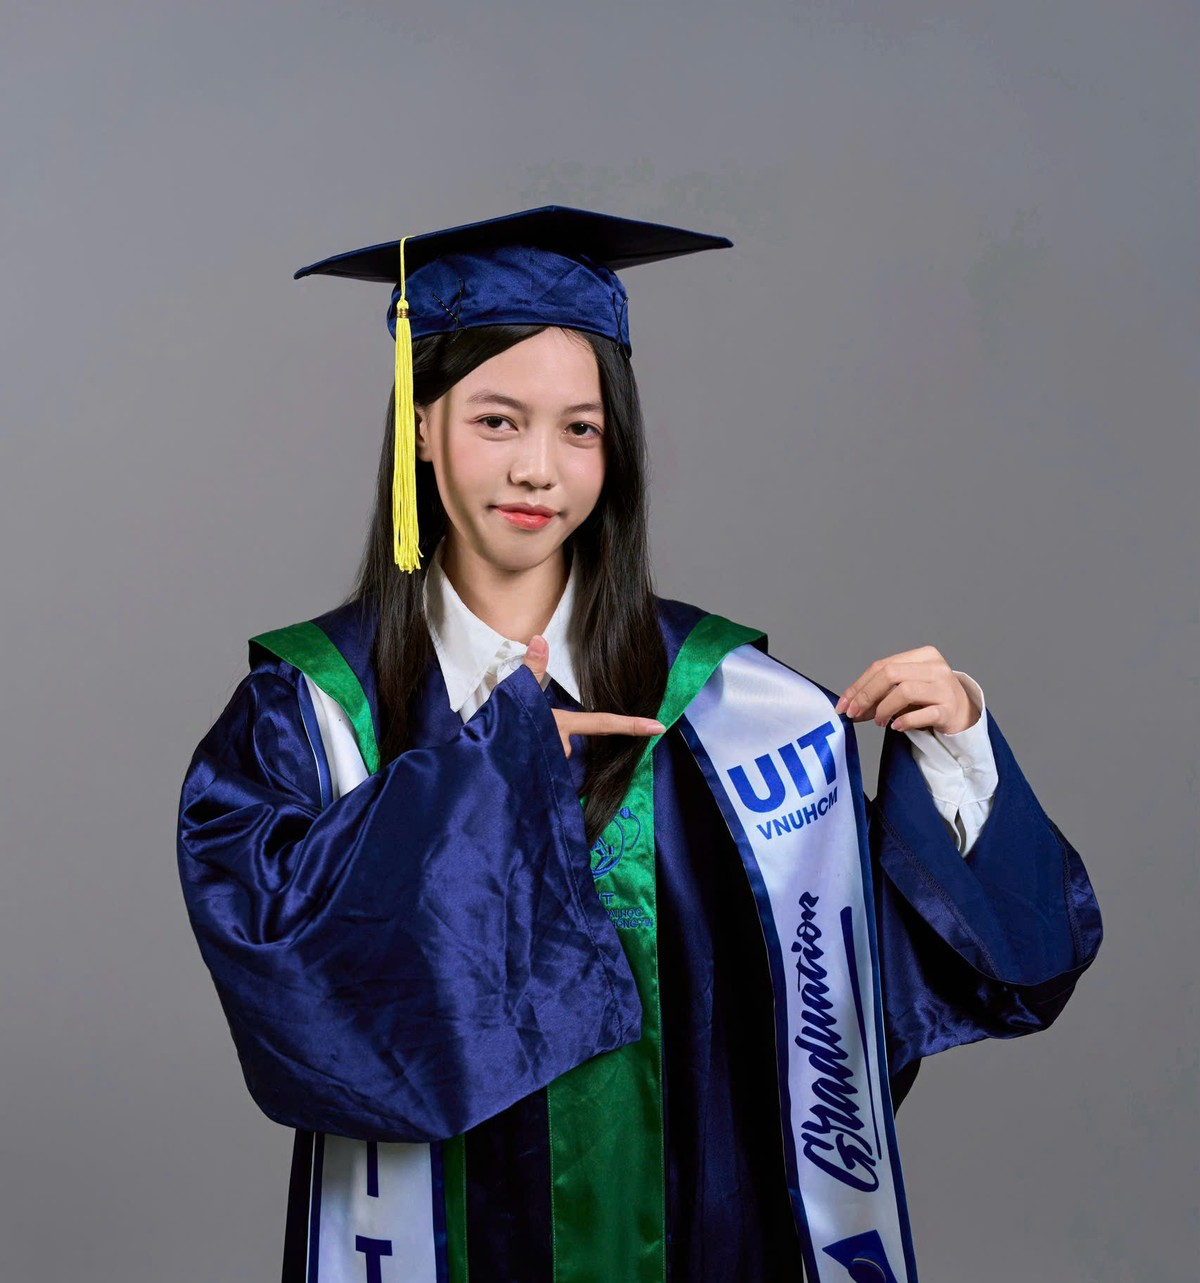
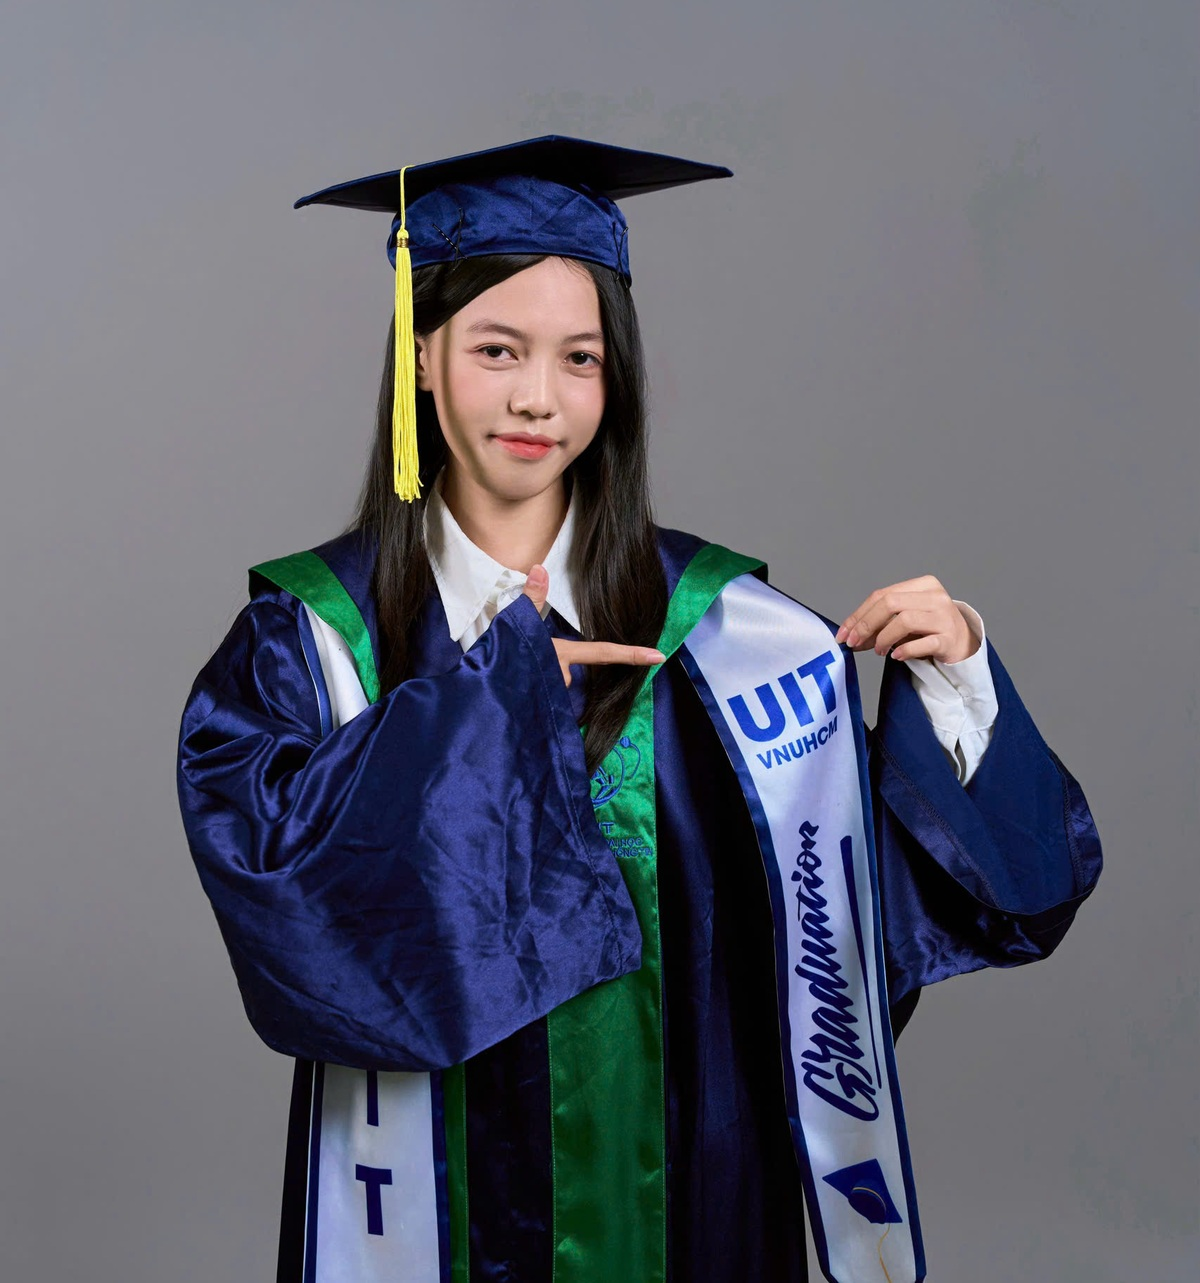
feat: cho sua loi nhan bang luu but trong host, giu nguyen loi cam on va cap nhat anh9 moi

diff --git a/src/personalization.js b/src/personalization.js
@@ -241,12 +241,14 @@ export function sanitizeOverrides(raw) {
   const heroDesc = sanitizeField(raw.heroDesc, 320)
   const aboutTitle = sanitizeField(raw.aboutTitle, 80)
   const aboutPara = sanitizeField(raw.aboutPara, 420)
+  const newsletterSub = sanitizeField(raw.newsletterSub, 360)
 
   if (coverText) out.coverText = coverText
   if (heroTitle) out.heroTitle = heroTitle
   if (heroDesc) out.heroDesc = heroDesc
   if (aboutTitle) out.aboutTitle = aboutTitle
   if (aboutPara) out.aboutPara = aboutPara
+  if (newsletterSub) out.newsletterSub = newsletterSub
   return out
 }
 
@@ -277,6 +279,7 @@ export function encodeInviteToken({
   if (cleanOverrides.heroDesc) compactOverrides.d = cleanOverrides.heroDesc
   if (cleanOverrides.aboutTitle) compactOverrides.a = cleanOverrides.aboutTitle
   if (cleanOverrides.aboutPara) compactOverrides.p = cleanOverrides.aboutPara
+  if (cleanOverrides.newsletterSub) compactOverrides.n = cleanOverrides.newsletterSub
 
   const hasOverrides = Object.keys(compactOverrides).length > 0
   const payload = hasOverrides
@@ -331,6 +334,7 @@ export function decodeInviteToken(token) {
         heroDesc: rawMap.d,
         aboutTitle: rawMap.a,
         aboutPara: rawMap.p,
+        newsletterSub: rawMap.n,
       })
       return {
         preset,
@@ -386,6 +390,7 @@ export function buildPersonalizedCopy(invite) {
   const defaultHeroDesc = base.hero.description
   const defaultAboutTitle = base.about.title
   const defaultAboutPara = base.about.paragraphs[1]
+  const defaultNewsletterSub = base.newsletter.subtitle
 
   const finalCoverText = cleanOverrides.coverText || defaultCoverText
   const finalHeroTitle = cleanOverrides.heroTitle || defaultHeroTitle
@@ -395,6 +400,7 @@ export function buildPersonalizedCopy(invite) {
   const finalHeroDesc = cleanOverrides.heroDesc || defaultHeroDesc
   const finalAboutTitle = cleanOverrides.aboutTitle || defaultAboutTitle
   const finalAboutPara = cleanOverrides.aboutPara || defaultAboutPara
+  const finalNewsletterSub = cleanOverrides.newsletterSub || defaultNewsletterSub
 
   return {
     ...base,
@@ -406,6 +412,7 @@ export function buildPersonalizedCopy(invite) {
       heroDesc: defaultHeroDesc,
       aboutTitle: defaultAboutTitle,
       aboutPara: defaultAboutPara,
+      newsletterSub: defaultNewsletterSub,
     },
     cover: {
       ...base.cover,
@@ -431,8 +438,18 @@ export function buildPersonalizedCopy(invite) {
       title: finalAboutTitle,
       paragraphs: [base.about.paragraphs[0], finalAboutPara],
     },
+    newsletter: {
+      ...base.newsletter,
+      subtitle: finalNewsletterSub,
+    },
+    footer: {
+      message: DEFAULT_FOOTER_MESSAGE,
+    },
   }
 }
+
+const DEFAULT_FOOTER_MESSAGE =
+  'Bốn năm đại học là hành trình của tri thức, của những nỗ lực không ngừng và của biết bao yêu thương nâng đỡ. Xuân Mai xin gửi lời cảm ơn chân thành nhất đến gia đình, thầy cô và bạn bè — những người đã luôn ở bên, và xin cảm ơn mọi người đã dành thời gian đến chung vui, để ngày tốt nghiệp này trở nên trọn vẹn và đáng nhớ hơn bao giờ hết.'
 
 const ABOUT_TITLE_DEFAULT = 'Đôi Dòng Tâm Sự'
 const ABOUT_FIRST_PARAGRAPH =

diff --git a/src/components/HostInviteTool.jsx b/src/components/HostInviteTool.jsx
@@ -731,6 +731,7 @@ function HostStudioWorkspace({ onLockSession }) {
   const coverEdited = Boolean(cleanOverrides.coverText)
   const heroEdited = Boolean(cleanOverrides.heroTitle || cleanOverrides.heroDesc)
   const aboutEdited = Boolean(cleanOverrides.aboutTitle || cleanOverrides.aboutPara)
+  const newsletterEdited = Boolean(cleanOverrides.newsletterSub)
 
   return (
     <div
@@ -1087,6 +1088,38 @@ function HostStudioWorkspace({ onLockSession }) {
                     handleInlineChange('aboutPara', e.target.value, draftCopy.defaults.aboutPara)
                   }
                   onBlur={() => handleInlineBlur('aboutPara')}
+                />
+              </div>
+
+              <div className="host-preview-line">
+                <div className="host-preview-line__head">
+                  <span className="host-preview-line__tag">Bảng lưu bút &amp; lời chúc</span>
+                  {newsletterEdited && (
+                    <button
+                      type="button"
+                      className="host-preview-line__reset"
+                      onClick={() => resetOverrideKeys(['newsletterSub'])}
+                    >
+                      Đặt lại
+                    </button>
+                  )}
+                </div>
+                <AutoTextarea
+                  id="host-edit-newsletter-sub"
+                  aria-label="Chỉnh sửa lời nhắn cá nhân hóa trong phần Bảng lưu bút"
+                  className={`host-inline-editor host-inline-editor--body${newsletterEdited ? ' is-edited' : ''}`}
+                  maxLength={360}
+                  value={getFieldValue('newsletterSub', draftCopy.newsletter.subtitle)}
+                  placeholder={draftCopy.defaults.newsletterSub}
+                  onFocus={() => handleInlineFocus('newsletterSub', draftCopy.newsletter.subtitle)}
+                  onChange={(e) =>
+                    handleInlineChange(
+                      'newsletterSub',
+                      e.target.value,
+                      draftCopy.defaults.newsletterSub
+                    )
+                  }
+                  onBlur={() => handleInlineBlur('newsletterSub')}
                 />
               </div>
             </div>

diff --git a/src/components/About.jsx b/src/components/About.jsx
@@ -15,7 +15,7 @@ export default function About() {
           <figure className="about__frame">
             <img
               className="about__photo"
-              src="/assets/about-mai.jpg"
+              src="/assets/about-mai.jpg?v=2"
               alt="Nguyễn Vũ Xuân Mai duyên dáng trong lễ phục cử nhân UIT, đội mũ tốt nghiệp và dải băng tốt nghiệp UIT"
               width="1200"
               height="1283"
